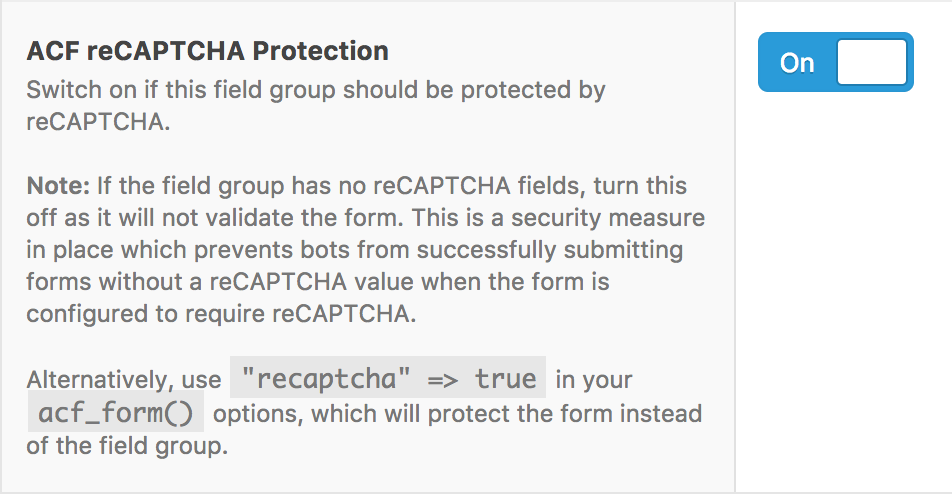
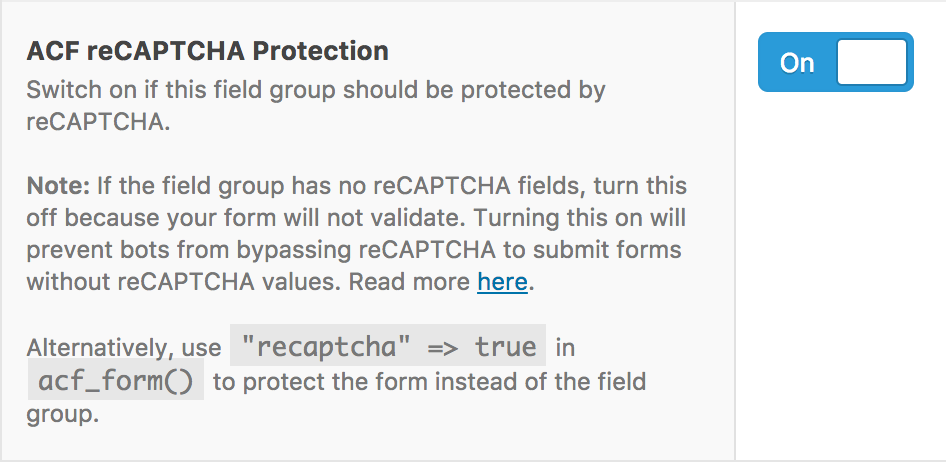
Update help text, screenshot and README

diff --git a/acf-recaptcha-v5.php b/acf-recaptcha-v5.php
@@ -268,9 +268,10 @@ class acf_field_recaptcha extends acf_field {
                 __('Switch on if this field group should be protected by reCAPTCHA.', 'acf-recaptcha') .
                 '<br /><br />' .
                 '<strong>' . __('Note: ', 'acf-recaptcha') . '</strong>' .
-                __('If the field group has no reCAPTCHA fields, turn this off as it will not validate the form. This is a security measure in place which prevents bots from successfully submitting forms without a reCAPTCHA value when the form is configured to require reCAPTCHA.', 'acf-recaptcha') .
+                __('If the field group has no reCAPTCHA fields, turn this off because your form will not validate. Turning this on will prevent bots from bypassing reCAPTCHA to submit forms without reCAPTCHA values. ', 'acf-recaptcha') .
+                __('Read more <a href="https://github.com/irvinlim/acf-recaptcha#acf-recaptcha-protection">here</a>.', 'acf-recaptcha') .
                 '<br /><br />' .
-                __('Alternatively, use <code>"recaptcha" => true</code> in your <code>acf_form()</code> options, which will protect the form instead of the field group.', 'acf-recaptcha'),
+                __('Alternatively, use <code>"recaptcha" => true</code> in <code>acf_form()</code> to protect the form instead of the field group.', 'acf-recaptcha'),
             'type' => 'true_false',
             'name' => 'recaptcha',
             'prefix' => 'acf_field_group',

diff --git a/includes/field-message.php b/includes/field-message.php
@@ -26,7 +26,7 @@ function render_field_message() {
             </p>
             <p>
                 <?php echo __('To protect this field group from spam, you must turn on <strong>"ACF reCAPTCHA Protection"</strong> under the settings at the bottom of the page, and specify the field group ID explicitly in your frontend form code.', 'acf-recaptcha'); ?>
-                <?php echo __('Read more about this on the <a href="https://github.com/irvinlim/acf-recaptcha">GitHub repository</a>.', 'acf-recaptcha'); ?>
+                <?php echo __('Read more <a href="https://github.com/irvinlim/acf-recaptcha#acf-recaptcha-protection">here</a>.', 'acf-recaptcha'); ?>
             </p>
         </div>
     </div>

diff --git a/README.md b/README.md
@@ -6,7 +6,7 @@
 
 ## Announcement
 
-An important security fix was released in v1.2.0. Read more about it [here](), and please update to v1.2.0 ASAP.
+An important security fix was released in v1.2.0. Read more about it [here](https://github.com/irvinlim/acf-recaptcha/pull/22), and please update to v1.2.0 ASAP.
 
 ## Generating API keys
 
@@ -63,7 +63,7 @@ Note that if a frontend form has no reCAPTCHA fields but has ACF reCAPTCHA Prote
 
 For field groups created using the ACF interface in `wp-admin`, simply turning on the *ACF reCAPTCHA Protection* toggle would be sufficient.
 
-![](https://raw.githubusercontent.com/irvinlim/acf-recaptcha/master/assets/screenshot-4.png)
+![](https://raw.githubusercontent.com/irvinlim/acf-recaptcha/v1.2/assets/screenshot-4.png)
 
 **Note**: This will not work with field groups added to frontend forms which use a combination of *Location Rules* and `acf_form()` (without any arguments). Field group ID or key has to be explicitly specified in `acf_form($args)`.
 
